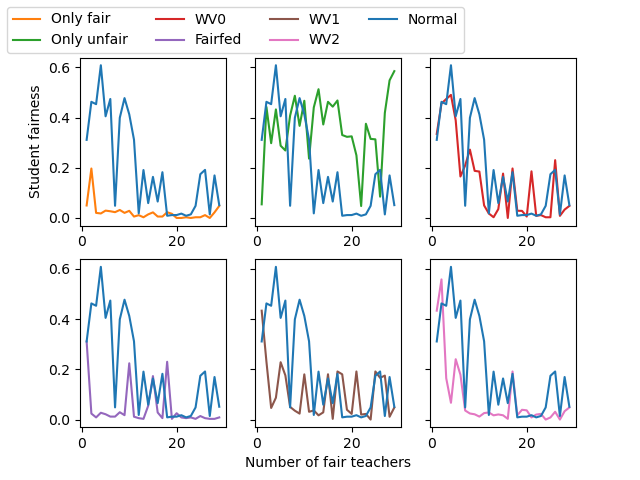
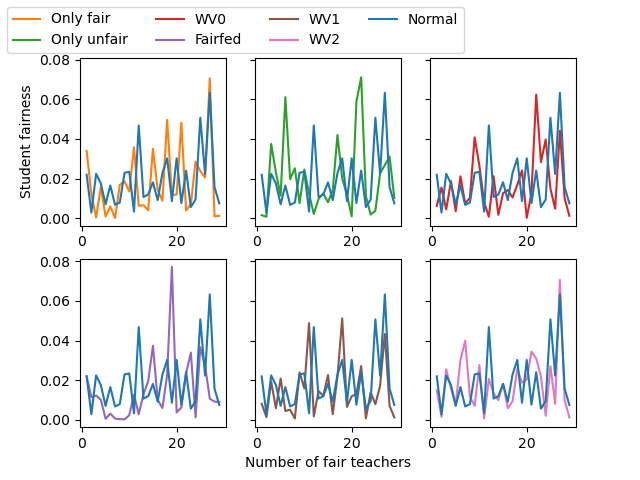
binary race attribut

diff --git a/src/global_stats.py b/src/global_stats.py
@@ -67,7 +67,7 @@ def wrapper(args):
     return train_students(*args)
 
 
-for nb_teachers in [15, 20, 25]:
+for nb_teachers in [30]:
     fig, ((ax1,ax2,ax3), (ax4,ax5,ax6)) = plt.subplots(2,3, sharey=True)
     st_fairness = {}
     print(">>> ", nb_teachers, " teachers ")
